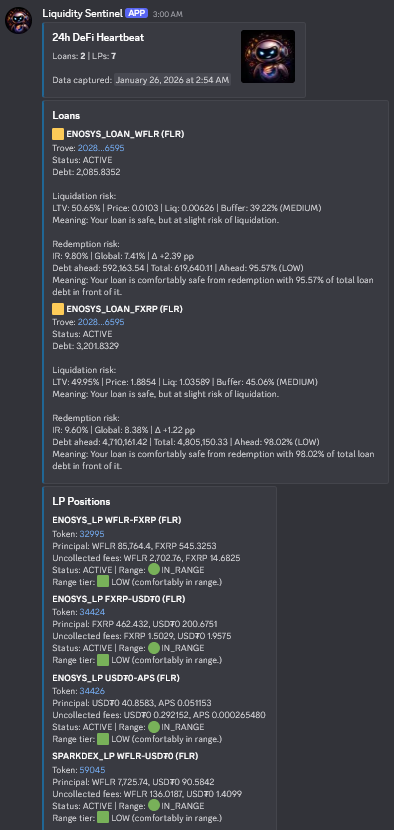
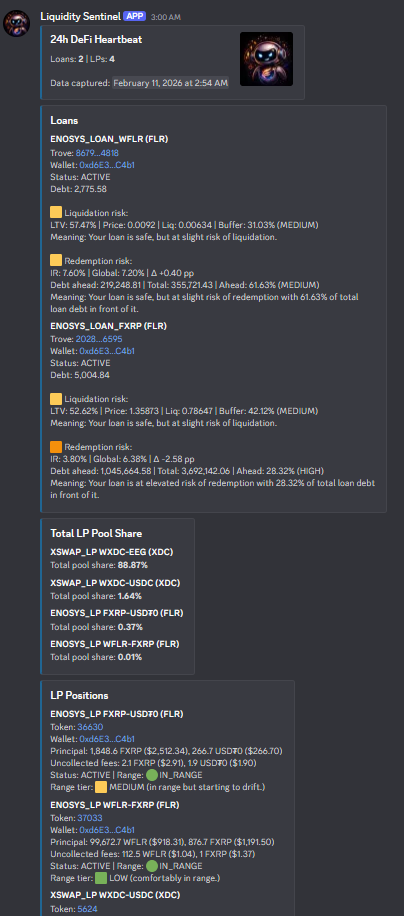
improve alerts for watches, clean up readme

Changed region(s): [[0.0, 0.0, 0.9442, 1.0], [0.5787, 0.0301, 0.7614, 0.1205]]

diff --git a/monitoring/alertEngine.js b/monitoring/alertEngine.js
@@ -521,10 +521,19 @@ async function sendDmToUser({ userId, phase, alertType, logPrefix, message, meta
           ? { text: "OOR", emoji: "🔴" }
           : { text: "UNK", emoji: "⚪" };
       const tierU = (newTier || "UNKNOWN").toString().toUpperCase();
+      const pairText =
+        meta?.pairLabel ||
+        `${meta?.token0Symbol || meta?.token0 || "?"}-${meta?.token1Symbol || meta?.token1 || "?"}`;
+      const trendArrow =
+        headline.text === "Improving"
+          ? "↗"
+          : headline.text === "Worsening"
+          ? "↘"
+          : "→";
 
       const embed = new EmbedBuilder()
         .setTitle(`LP Alert - ${statusShort.emoji} ${statusShort.text} ${tierEmoji(tierU)} ${tierU}`)
-        .setDescription(`${meta?.protocol || "LP"} (${headline.text.toLowerCase()})`)
+        .setDescription(`${pairText} ${trendArrow} ${meta?.protocol || "LP"}`)
         .setColor(alertColor)
         .setTimestamp();
 

diff --git a/README.md b/README.md
@@ -29,7 +29,7 @@ Total LP pool-share by DEX/pair across all tracked wallets and positions, includ
 <img src="img/my-pool-share.png" alt="/my-pool-share screenshot" width="720">
 
 ### /my-wallets
-Tracked wallets and linked positions, built for a quick coverage check. Includes an LP alert flag to suppress tier-only updates so you only get in-range/out-of-range changes when preferred.
+Tracked wallets and linked positions, built for a quick coverage check. Includes an LP alert flag to suppress tier-only updates so you only get in-range/out-of-range changes when preferred, plus per-user daily heartbeat schedule settings (hour + timezone, with heartbeat enable/disable).
 
 <img src="img/my-wallets.png" alt="/my-wallets screenshot" width="720">
 
@@ -56,6 +56,7 @@ Stateful alerting for liquidation/redemption thresholds and position risk change
 ### Daily heartbeat DM
 A daily summary DM with tracked positions, current status, and key liquidity/health signals.
 Includes a total LP pool-share summary by DEX/pair across your tracked wallets.
+Delivery time is user-configurable from `/my-wallets` (hour + timezone).
 
 <img src="img/daily-heartbeat.png" alt="Daily heartbeat screenshot" width="720">
 
@@ -66,6 +67,7 @@ Includes a total LP pool-share summary by DEX/pair across your tracked wallets.
 - Scheduled scanning so positions stay fresh in near-realtime.
 - Multi-chain RPC support with strict environment validation.
 - Lightweight custom logger for consistent, controllable output.
+- Optional Firelight vault-capacity signal channel with reaction-based DM subscription.
 
 ---
 
